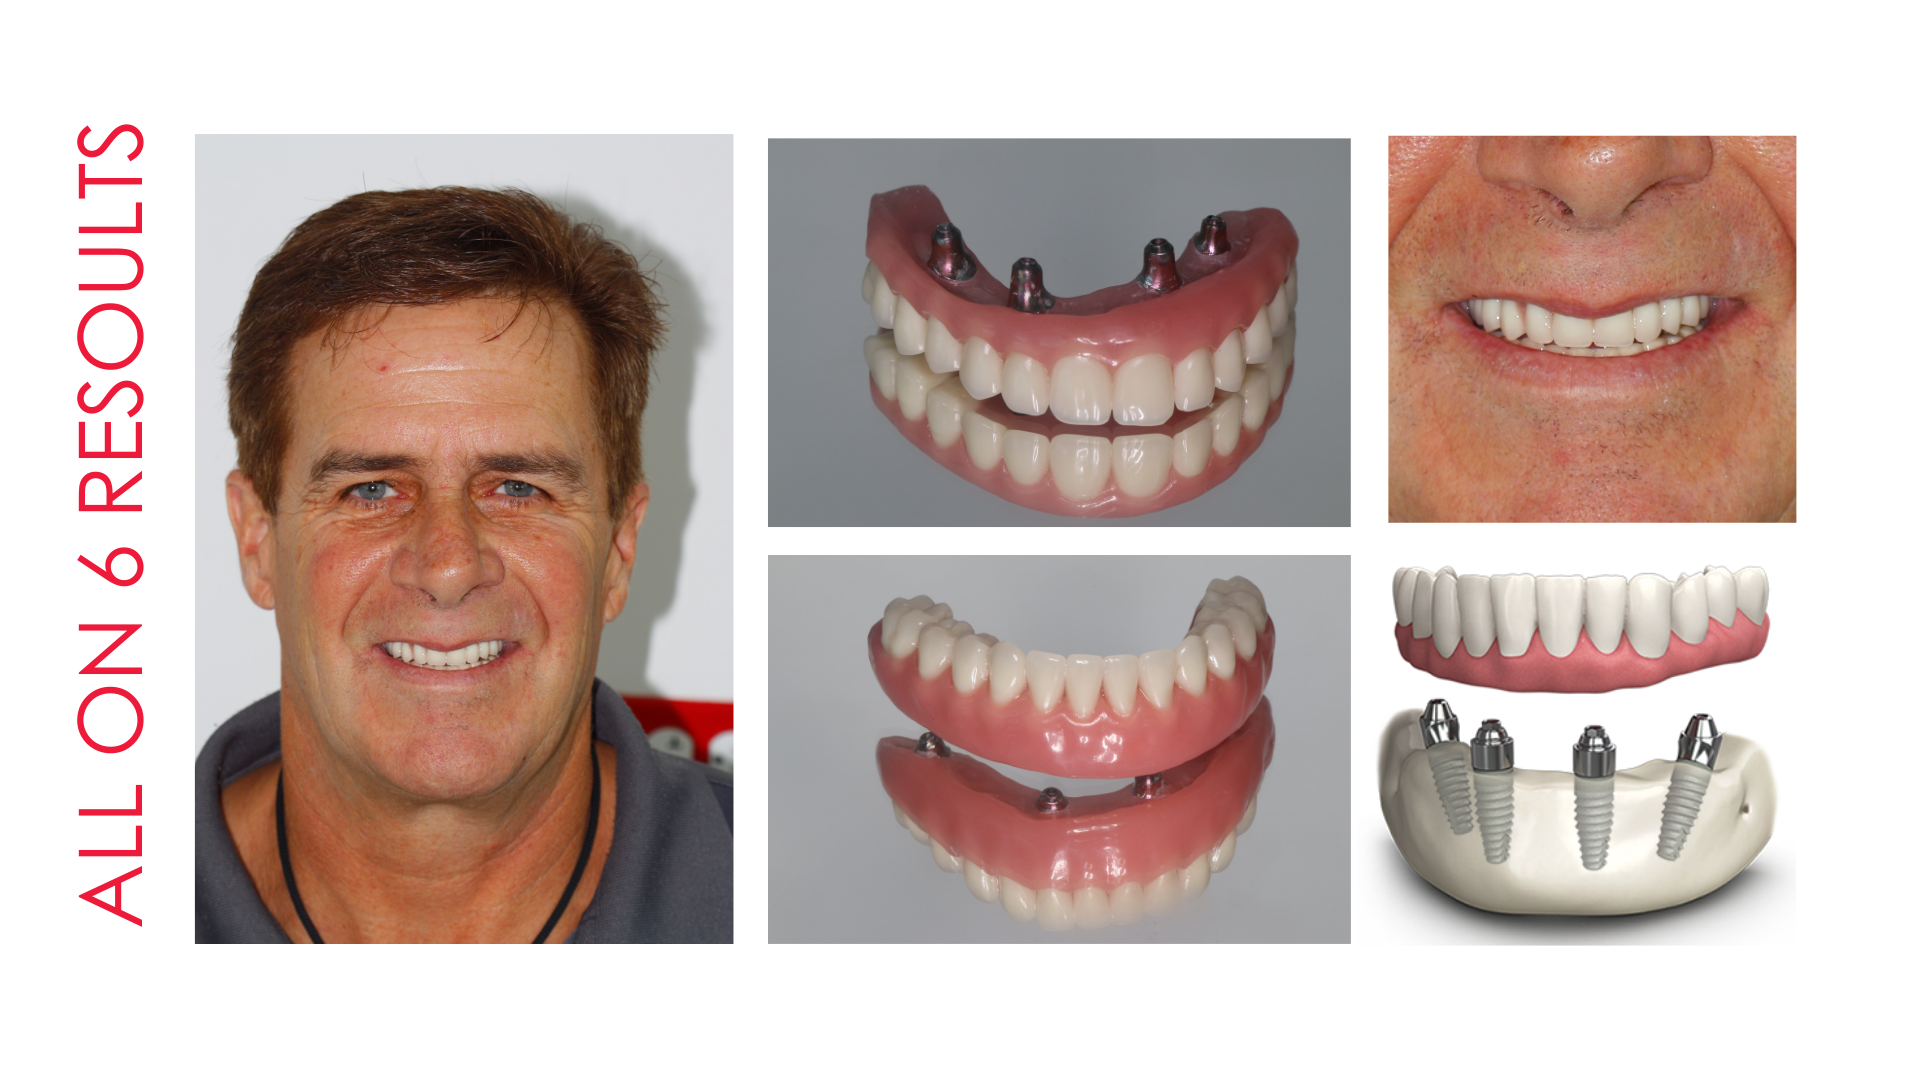
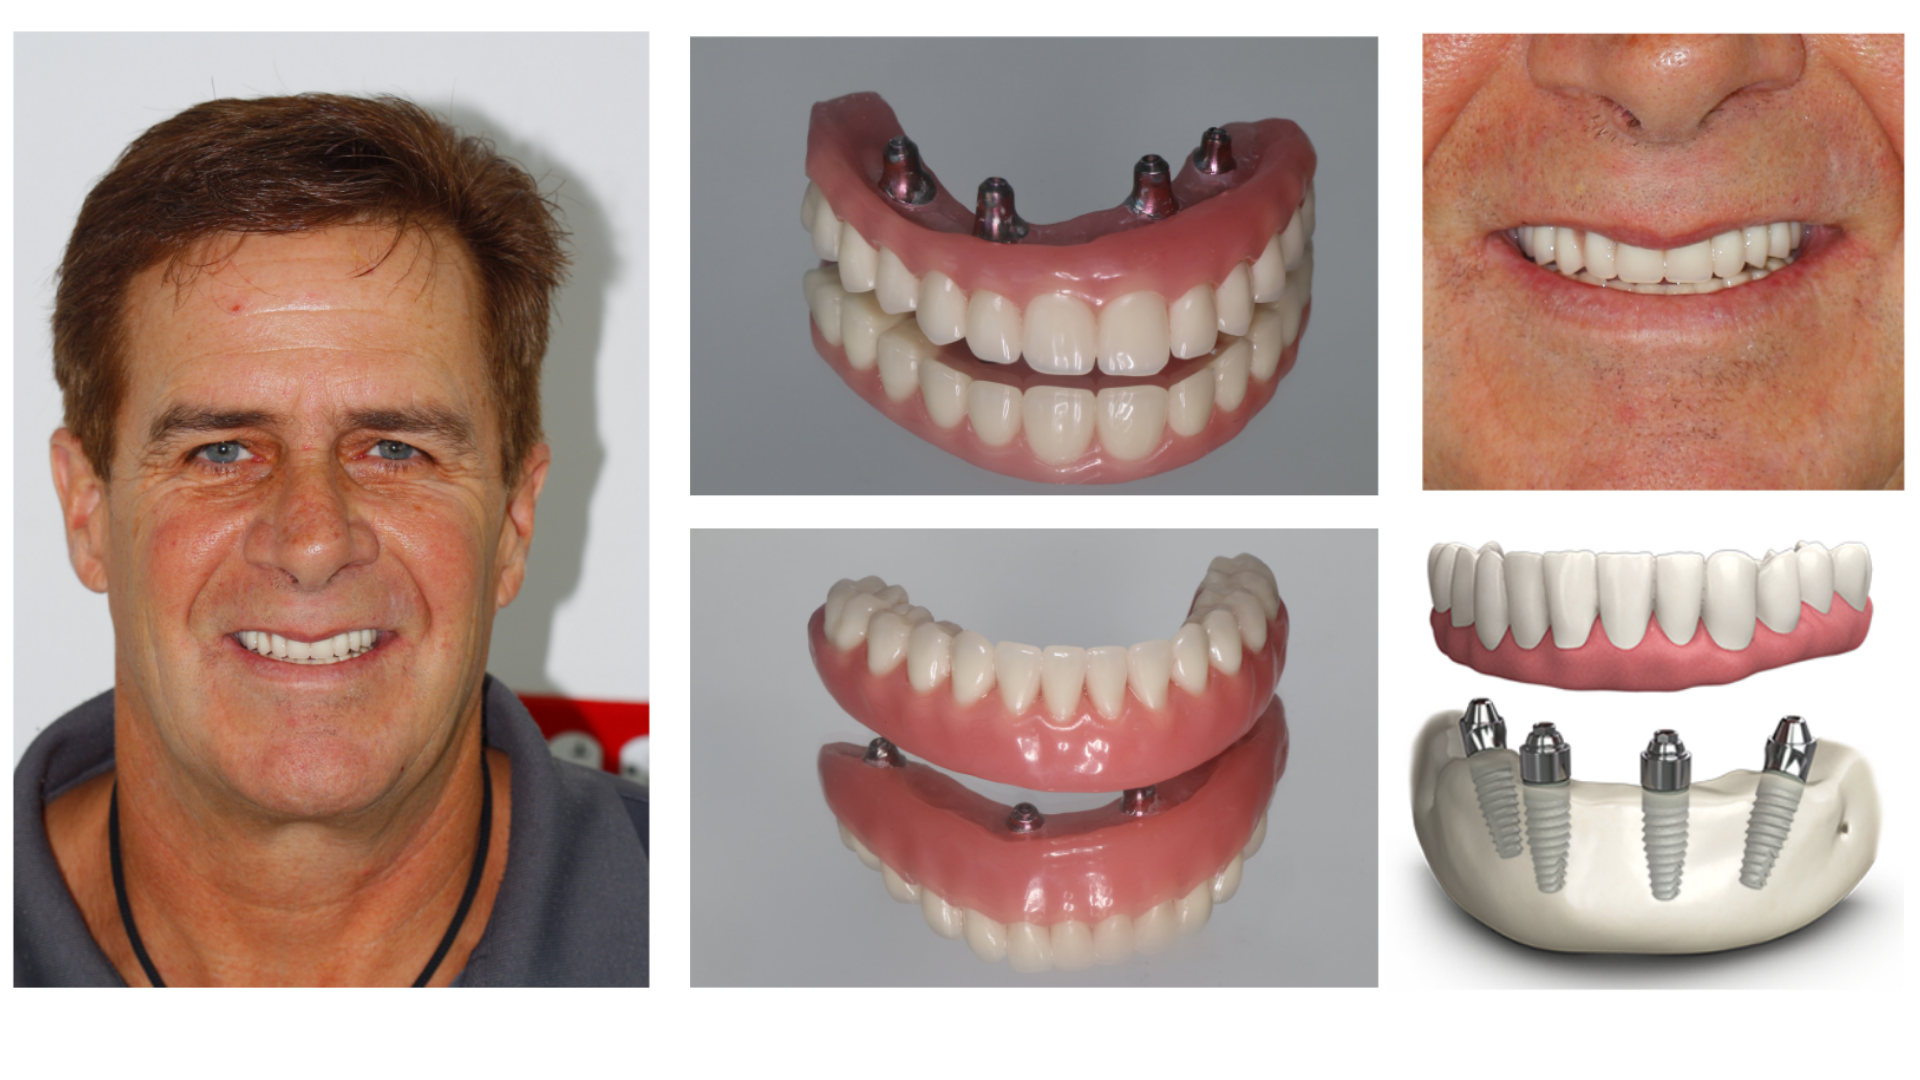
final 13

diff --git a/src/app/Components/section7/section7.component.html b/src/app/Components/section7/section7.component.html
@@ -85,22 +85,30 @@
             <div class="container">
 
                 <section class="customer-logos slider">
-                    <div class="slide"><img src="../../../assets/Iconos Footer/icon1.jpg" width="47%"></div>
-                    <div class="slide"><img src="../../../assets/Iconos Footer/icon2.png" width="80%"></div>
-                    <div class="slide"><img src="../../../assets/Iconos Footer/icon3.png" width="80%"></div>
-                    <div class="slide"><img src="../../../assets/Iconos Footer/icon4.png" width="80%"></div>
-                    <div class="slide"><img src="../../../assets/Iconos Footer/icon5.jpg" width="80%"></div>
-                    <div class="slide"><img src="../../../assets/Iconos Footer/icon6.jpg" width="80%">
+                    <div class="slide"><img class="img-fluid" src="../../../assets/Iconos Footer/icon1.jpg" width="47%">
                     </div>
-                    <div class="slide"><img src="../../../assets/Iconos Footer/icon7.png" width="45%">
+                    <div class="slide"><img class="img-fluid" src="../../../assets/Iconos Footer/icon2.png" width="80%">
                     </div>
-                    <div class="slide"><img src="../../../assets/Iconos Footer/icon8.png" width="45%"></div>
-                    <div class="slide"><img src="../../../assets/Iconos Footer/icon9.png" width="80%"></div>
-                    <div class="slide"><img src="../../../assets/Iconos Footer/icon10.jpg" width="80%"></div>
+                    <div class="slide"><img class="img-fluid" src="../../../assets/Iconos Footer/icon3.png" width="80%">
+                    </div>
+                    <div class="slide"><img class="img-fluid" src="../../../assets/Iconos Footer/icon4.png" width="80%">
+                    </div>
+                    <div class="slide"><img class="img-fluid" src="../../../assets/Iconos Footer/icon5.jpg" width="80%">
+                    </div>
+                    <div class="slide"><img class="img-fluid" src="../../../assets/Iconos Footer/icon6.jpg" width="80%">
+                    </div>
+                    <div class="slide"><img class="img-fluid" src="../../../assets/Iconos Footer/icon7.png" width="45%">
+                    </div>
+                    <div class="slide"><img class="img-fluid" src="../../../assets/Iconos Footer/icon8.png" width="45%">
+                    </div>
+                    <div class="slide"><img class="img-fluid" src="../../../assets/Iconos Footer/icon9.png" width="80%">
+                    </div>
+                    <div class="slide"><img class="img-fluid" src="../../../assets/Iconos Footer/icon10.jpg"
+                            width="80%"></div>
                 </section>
 
-               <br>
-               <br>
+                <br>
+                <br>
             </div>
         </div>
     </div>

diff --git a/src/app/Components/section4/section4.component.html b/src/app/Components/section4/section4.component.html
@@ -1,18 +1,18 @@
-
-    <h1 id="TitleAllOn6">All ON 6 PACKAGE</h1>
-
 <br>
+<h1 id="TitleAllOn6">All ON 6 PACKAGE</h1>
+
+
 <div class="card-deck">
-  
-   
+
+
     <div class="card w-75" id="VideoCardCol">
         <iframe class="embed-responsive-item" width="100%" height="720" src="https://www.youtube.com/embed/vomNmj9aFuQ"
-        title="YouTube video player" frameborder="0"
-        allow="accelerometer; autoplay; clipboard-write; encrypted-media; gyroscope; picture-in-picture"
-        allowfullscreen></iframe>   
+            title="YouTube video player" frameborder="0"
+            allow="accelerometer; autoplay; clipboard-write; encrypted-media; gyroscope; picture-in-picture"
+            allowfullscreen></iframe>
         <div class="card-body">
-            
-          
+
+
             <br>
             <br>
             <br>

diff --git a/src/app/Components/section3/section3.component.html b/src/app/Components/section3/section3.component.html
@@ -1,11 +1,15 @@
 
 <div class="container-fluid">
+    <div style="padding: 2px; background-color: black; margin-left: 400px; margin-right: 400px;"></div>
+    <br>
+    <h1 id="TitleAllOn6">All ON 6 RESULTS</h1>
 
-   <div style="padding: 2px; background-color: black; margin-left: 400px; margin-right: 400px;"></div>
+  
     <div class="card animate__animated animate__bounceInLeft">
-        <img class="img-fluid mx-auto d-block mt-3" src="../../../assets/img/Before and after.png" width="100%">
+        <img class="img-fluid mx-auto d-block mt-3" src="../../../assets/img/Before and After.png" width="100%">
 
     </div>
 
 </div>
-<hr>
+<br>
+<div style="padding: 2px; background-color: black; margin-left: 400px; margin-right: 400px;"></div>

diff --git a/src/assets/Scripts/CarouselIcons.js b/src/assets/Scripts/CarouselIcons.js
@@ -1,6 +1,6 @@
 $(document).ready(function(){
     $('.customer-logos').slick({
-        slidesToShow: 3,
+        slidesToShow: 7,
         slidesToScroll: 1,
         autoplay: true,
         autoplaySpeed: 2000,

diff --git a/src/app/Components/section3/section3.component.css b/src/app/Components/section3/section3.component.css
@@ -1,7 +1,12 @@
-
 .card{
     border: none;
 }
 strong{
     color: #064973
+}
+#TitleAllOn6{
+    text-align: center;
+    font-family: 'Century Gothic Regular';
+    color:#ED1A3A;
+    font-size: 65px;
 }

diff --git a/src/app/Components/section7/section7.component.css b/src/app/Components/section7/section7.component.css
@@ -16,8 +16,8 @@ label{
 
   /* Slider */
   
-  .slick-slide {
-      margin: 0px 20px;
+  .slide{
+      font-size: 10px;
   }
   
   .slick-slider
